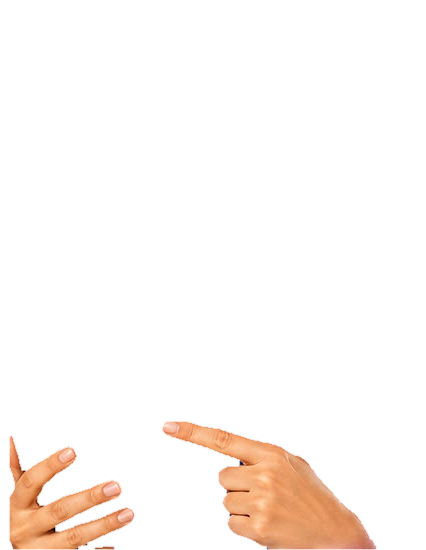
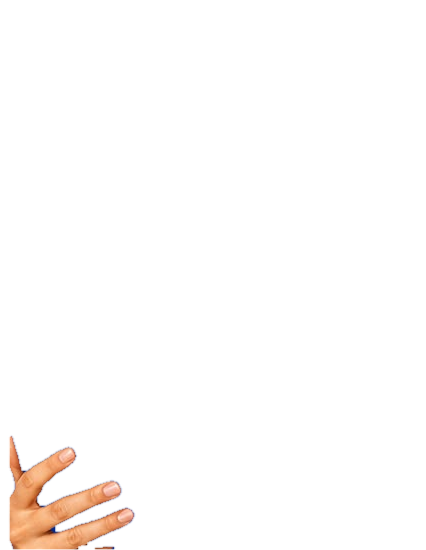
Hold the card by its corner with fingertips, based on reference photo
Claude-Session: https://claude.ai/code/session_01628SCs86MQsSSCAYJir1oD

diff --git a/arte-easy-creds/fonte/page.html b/arte-easy-creds/fonte/page.html
@@ -9,7 +9,7 @@ body{width:1122px;height:1402px;position:relative;overflow:hidden;font-family:'I
 .tag i{display:block;width:230px;height:4px;margin-top:8px;border-radius:4px;background:linear-gradient(90deg,#ff8a1f,rgba(255,138,31,0))}
 .woman{left:569px;top:-25px;width:553px;height:715px}
 .woman>img{position:absolute;left:0;top:0;width:100%;height:100%}
-.card{position:absolute;width:262px;left:-26px;top:476px;transform:rotate(80deg);border-radius:20px;overflow:hidden;
+.card{position:absolute;width:280px;left:136px;top:484px;transform:rotate(-8deg);border-radius:20px;overflow:hidden;
  box-shadow:0 18px 30px rgba(0,0,40,.55),0 0 0 2px rgba(255,255,255,.25)}
 .card img{width:100%;display:block}
 .pre{left:40px;top:322px;transform:skewX(-12deg);background:linear-gradient(90deg,#ffa63a,#ff7a12);padding:8px 34px 8px 26px;border-radius:6px;
@@ -63,6 +63,7 @@ body{width:1122px;height:1402px;position:relative;overflow:hidden;font-family:'I
 <div class="abs woman">
   <img src="woman.png">
   <div class="card"><img src="card.png"></div>
+  <img src="hands.png">
 </div>
 
 <div class="abs pre"><span>SOLICITE SEU</span></div>

diff --git a/arte-easy-creds/fonte/prep.py b/arte-easy-creds/fonte/prep.py
@@ -8,6 +8,36 @@ two=Image.open(S+'images/2.jpg').convert('RGB')
 # --- woman (from ref image 1): crop x 598..1024, y 0..550
 X0=598; W=426; H=550
 w=one.crop((X0,0,X0+W,H)).convert('RGBA')
+arr=np.array(w).astype(np.float32)
+rr,gg,bb=arr[...,0],arr[...,1],arr[...,2]
+mx=np.maximum(np.maximum(rr,gg),bb); mn=np.minimum(np.minimum(rr,gg),bb)
+dark=(mx<122).astype(np.uint8)*255
+bp=Image.new('L',(W,H),0); ImageDraw.Draw(bp).polygon([(10,374),(104,374),(140,440),(140,550),(10,550)],fill=1)
+dm0=Image.fromarray(dark*np.array(bp)).filter(ImageFilter.MaxFilter(7))
+dm=(np.array(dm0.filter(ImageFilter.GaussianBlur(2.5))).astype(np.float32)/255)[...,None]
+skin=((rr>130)&(rr>gg+15)&(rr-bb>40))
+skin=np.array(Image.fromarray(skin.astype(np.uint8)*255).filter(ImageFilter.MaxFilter(9)))>0
+valid=((np.array(dm0)==0)&(~skin)).astype(np.float32); valid[:, :12]=0
+def gk(s):
+    r=int(3*s)+1; x=np.arange(-r,r+1); k=np.exp(-x*x/(2*s*s)); return k/k.sum()
+def gb(a,s):
+    k=gk(s); a=np.apply_along_axis(lambda v:np.convolve(np.pad(v,len(k)//2,mode='edge'),k,mode='valid'),0,a)
+    return np.apply_along_axis(lambda v:np.convolve(np.pad(v,len(k)//2,mode='edge'),k,mode='valid'),1,a)
+fill=np.zeros_like(arr[...,:3]); got=np.zeros((H,W),np.float32)
+for s in (6,14,30,60,120):
+    den=gb(valid,s)
+    ok=(den>0.02)&(got==0)
+    for c in range(3):
+        num=gb(arr[...,c]*valid,s)
+        fill[...,c]=np.where(ok,num/np.maximum(den,1e-3),fill[...,c])
+    got=np.where(ok,1,got)
+loose=((rr>55)&(rr>gg+12)&(rr>bb+20)).astype(np.uint8)*255
+loose=np.array(Image.fromarray(loose).filter(ImageFilter.MinFilter(3)).filter(ImageFilter.GaussianBlur(1)))[...,None].astype(np.float32)/255
+ramp=np.clip((np.arange(H)-372)/4,0,1)[:,None,None].astype(np.float32)
+lramp=np.clip((np.arange(W)-8)/6,0,1)[None,:,None].astype(np.float32)
+dm=dm*(1-loose)*ramp*lramp
+arr[...,:3]=arr[...,:3]*(1-dm)+fill*dm
+w=Image.fromarray(arr.clip(0,255).astype(np.uint8)).convert('RGBA')
 a=np.ones((H,W),dtype=np.float32)
 # bottom fade
 for y in range(H):
@@ -26,7 +56,7 @@ r,g,b=rgb[...,0],rgb[...,1],rgb[...,2]
 skin=((r>130)&(r>g+15)&(g>b-5)&(r-b>40)).astype(np.uint8)*255
 poly=Image.new('L',(W,H),0); d=ImageDraw.Draw(poly)
 d.polygon([(10,428),(150,424),(145,548),(10,548)],fill=255)           # holding hand (asset coords)
-d.polygon([(162,422),(426,422),(426,548),(162,548)],fill=255)       # pointing hand + back of hand
+pass       # pointing hand + back of hand
 m=Image.fromarray(skin).filter(ImageFilter.MaxFilter(5)).filter(ImageFilter.MinFilter(5))
 m=m.point(lambda v:255 if v>127 else 0).filter(ImageFilter.MinFilter(3))
 m=Image.fromarray((np.array(m)*(np.array(poly)>0)).astype(np.uint8)).filter(ImageFilter.GaussianBlur(0.7))
